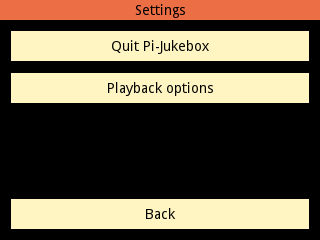
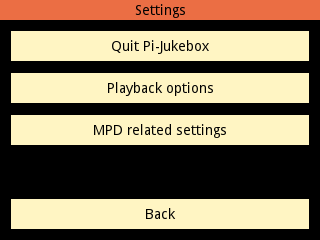
rebuilt docs

Changed region(s): [[0.0312, 0.4667, 0.9688, 0.6125]]

diff --git a/searchindex.js b/searchindex.js
@@ -1,1 +1,1 @@
-Search.setIndex({envversion:42,terms:{swipe_click:[],all:[2,3],partial:2,whatev:3,consum:2,mnt:3,image_fil:2,show_playlist:2,supplement:3,"_yourusername_":3,follow:[2,3],millisecond:2,"const":2,swipe_up:[],program:[1,2,3],worth:3,sound:3,hor_mid:2,string:2,straightforward:3,song:2,fals:2,account:3,mous:2,hor_ind:2,item_select:[],volum:[2,3],jack:3,on_swip:2,magic:3,did:[0,1],button:2,list:2,is_mpd_run:[],item:2,adjust:[1,2],servic:3,work:3,cfg:3,browseabl:3,status_get:2,zero:3,item_outline_vis:2,download:3,further:2,click:2,blue:2,index:[0,2],what:[1,2],get_playlist_current_playing_index:2,nano:3,abl:[1,3],access:[1,3],version:1,screensearch:2,consume_switch:2,keyboardlett:2,ever:0,"public":3,movement:2,show_prev_item:2,hdmi:3,usb1:3,play_playlist_item:2,song_nam:2,here:[0,3],behaviour:3,beck:[],test:3,path:3,set_text:2,vertic:2,sinc:3,valu:[1,2],wait:[2,3],box:2,search:[],zeroconf_en:3,larger:1,step:3,zeroconf:[],amount:1,action:2,extrem:3,chang:3,fstab:3,playlist_current_crop:[],songs_get:2,win:3,modul:0,prefer:3,apt:3,brought:1,"boolean":2,thought:3,visibl:2,instal:[],playlist_add_playlist:2,select:[],album_songs_get:2,item_alignment_horizont:2,"3_library_act":[],from:[],usb:[],would:3,internation:3,piusb:3,two:[2,3],next:2,live:3,playlist_nam:2,call:[2,3],rect:2,type:2,until:2,event_loop:2,playlist_current_count:2,relat:[2,3],stick:[],relai:2,hold:2,screensettingsquit:2,cach:3,must:[1,3],none:2,retriev:2,room:1,hous:1,prepar:[],outlin:2,keyboardbas:2,tag_nam:2,can:[0,1,2,3],learn:3,add_screen:2,alignment_vert:2,stream:1,scan:3,process:2,sudo:[1,3],share:3,indic:[],sourc:3,want:[0,1,2,3],huge:1,cours:3,turn:[2,3],repeat_switch:2,write:2,subdirectori:3,lastfm:3,simpl:1,updat:[2,3],product:3,audioscrobbl:3,after:3,befor:[2,3],smbpasswd:3,data:2,util:3,timezon:3,add_compon:2,music_directori:1,vert_ind:2,mpdscribbl:3,inform:2,"switch":[1,2,3],caption:2,allow:[1,3],enter:[1,2],order:3,origin:2,mute:2,alsamix:3,move:2,becaus:3,through:[1,3],paramet:2,group:3,directli:1,fit:[2,3],swipe_left:[],alsactl:3,artists_get:2,window:[2,3],whole:3,might:3,wouldn:3,them:3,good:3,"return":2,handl:2,first_lett:2,rectangl:2,screenplaylist:2,now:3,screencoverart:[],name:[2,3],edit:[2,3],config:3,didn:3,easili:3,mode:2,"____run_on_raspberry_pi__":[],found:[1,2],modipi:1,search_typ:2,mdn:3,album_nam:2,enorm:1,lan:3,bluetooth:1,item_selected_index:2,connect:[2,3],event_loop_hook:2,happen:3,event:2,special:3,album:2,"try":[],network:3,space:3,vert_mid:2,reboot:3,clicked_item:2,content:[0,3],rel:2,hardwar:[],"__run_on_raspberry_pi":[],is_int:[],smb:3,file_nam:2,random_switch:2,shut:2,artist_songs_get:2,insid:2,advanc:3,playlist:3,mpd_music_dir:1,base:2,dictionari:2,put:3,succesfulli:[],soundcard:3,item_active_color:2,show_artist:2,card:3,indent:2,couldn:2,launch:2,set_align:2,library_rescan:2,keep:3,screenmod:2,font_color:2,current_index:2,first:[2,3],oper:[],icon_fil:2,render:2,number:2,sometim:3,iocharset:3,instruct:3,alreadi:3,done:2,least:2,size:3,playlists_get:2,differ:[1,2,3],guest:3,width:2,top:2,swipe:2,mkdir:3,system:[],messag:3,too:3,white:2,store:3,item_active_background_color:2,luckili:3,option:[2,3],tool:3,update_interv:2,specifi:2,part:2,kept:3,png:[],zeroconf_nam:3,kind:2,whenev:3,provid:3,remov:2,horizont:2,project:[0,1],friend:1,usbmount:3,posit:2,bet:3,browser:2,pre:[2,3],only_start:2,mind:[0,1,3],anywher:1,screenplai:2,packag:3,have:[0,1,3],need:[2,3],deamon:3,keyboardsymbol:2,screensettingsmpd:2,adafruit:[1,3],built:3,lib:3,self:3,add_row_button:2,also:[1,3],playlist_current_clear:2,take:3,which:[0,1,2,3],singl:1,pitft:3,sure:[1,3],usernam:3,previou:2,reach:3,plai:3,plan:1,letter:2,playlist_act:2,draw_item:2,item_selected_get:2,"class":2,icon:2,letterbrows:2,urg:0,url:3,later:[1,3],cover:2,drive:[],doe:3,determin:2,player_control_set:2,show:2,text:2,random:2,radio:1,font:2,fine:3,find:[0,2],current:[2,3],onli:[2,3],libnss:3,configur:[],activ:2,should:[1,2,3],gestur:[],black:2,folder:3,"_index_":2,local:3,selected_titl:2,touchscreen:[1,3],get:[2,3],familiar:3,stop:2,progress:2,increas:2,restart:3,cif:3,enabl:3,artist:[],"default":[2,3],common:3,contain:[2,3],active_item_index:2,where:[2,3],user:[2,3],set:[],art:2,writeabl:3,accord:2,playlist_add:2,see:3,full:3,artist_albums_get:2,result:2,close:2,pihom:3,statu:2,usb0:3,hopefulli:3,databas:2,someth:3,label:2,set_item_align:2,between:1,without:3,drawn:2,awai:3,first_letters_in_result_get:2,item_height:2,swipe_down:[],kei:2,type_show:2,entir:2,spare:3,disconnect:2,"_your":3,addit:3,ip_:3,etc:3,mani:1,screenvolum:2,com:3,load:1,screenplay:[],point:[1,2],instanti:2,inspir:1,height:2,littl:3,screen_set:[],cancel:2,mpd_systemwid:3,along:3,quit:[2,3],becom:3,execut:2,rebuild:2,devic:[],librarybrows:2,compon:[2,3],secret:3,much:3,basic:2,life:3,fire:2,imag:[2,3],ani:[2,3],find_text:2,bonjour:3,those:2,"case":[2,3],multi:1,look:3,align:2,defin:2,neat:3,"_yourpassword_":3,publicli:3,error:3,fun:0,raspi:3,loop:2,readi:3,audiocard:3,screen_rect:2,selected_typ:2,playlist_add_artist:2,player:[],swipe_right:[],itself:2,conf:[1,3],surprisingli:3,perform:2,media:3,same:[0,3],piradio:[],member:[],python:[],speaker:3,library_upd:2,complet:3,outline_vis:2,http:3,screenshot:[],utf8:3,effect:3,fairli:1,initi:[2,3],item_alignment_vert:2,weep:3,expand:3,volume_set:2,off:[2,3],labeltext:2,entri:[1,2,3],thu:2,set_currently_show:2,"320x240":1,client:[1,3],command:3,thi:[1,2,3],everyth:[2,3],comment:3,identifi:2,paus:2,just:[0,2,3],boot:3,rest:3,sima:3,x_po:2,touch:[0,3],simultan:1,tag_typ:2,swipe_type_get:[],samba:[],easi:[1,3],pages_count:2,had:0,except:[],param:2,color:2,add:[2,3],volume_mute_switch:2,explanatori:3,app:1,match:2,gave:3,bin:3,applic:[0,1],transpar:2,big:3,hor_left:2,background:2,press:2,amp:3,password:3,screenset:2,daemon:3,like:[1,3],artist_nam:2,manual:3,integ:[],server:[],list_symbol:2,collect:1,project_:[],necessari:3,output:3,avahi:3,depend:[2,3],www:3,right:3,captur:2,buttontext:2,some:[1,3],percentag:2,screensettingsplayback:2,home:3,albums_get:2,item_selected_background_color:2,scale:1,per:3,track:[2,3],nas_driv:3,listitem:2,recogniz:3,object:2,run:[],mpdcontrol:2,event_typ:[],journal:3,show_next_item:2,player_control_get:2,host:3,although:1,post:3,"throw":3,necess:3,update_librari:[],actual:3,page:[0,2,3],swipe_typ:2,draw_page_ind:2,you:[0,1,2,3],mpdlibrari:[],capacit:3,own:[2,3],absolut:2,within:[2,3],automat:3,down:2,find_first_lett:2,ensur:2,storag:3,your:[],manag:2,screen_list:2,pictur:2,support:[1,3],buttonicon:2,"long":3,why:3,start:[2,3],gid:3,includ:1,"var":3,music:[],set_playlist_current_playing_index:2,"function":2,headach:3,"1_player":[],playlist_add_song:2,raspberri:[],play_statu:2,link:3,volume_set_rel:2,line:3,"true":2,clear_playlist:2,made:[0,1,3],item_selected_color:2,search_text:2,possibl:[2,3],whether:[2,3],item_active_get:2,displai:2,set_image_fil:2,similar:3,show_album:2,model:3,featur:3,uid:3,creat:3,dure:2,mouse_down_po:2,file:[2,3],screenselect:2,y_po:2,check:1,fill:2,again:3,successfulli:2,playlist_add_album:2,titl:2,when:2,virtual:2,field:2,other:[1,3],futur:[1,3],screenlibrari:2,gui_widget:2,nice:3,variabl:2,draw:2,repeat:2,symbol:2,on_click:2,item_ind:2,itemlist:2,process_mouse_ev:2,raspbian:3,show_song:2,directori:3,wifi:[],mask:3,alignment_horizont:2,"2_library_brows":[],time:3,escap:2},objtypes:{"0":"py:module","1":"py:class","2":"py:method"},objnames:{"0":["py","module","Python module"],"1":["py","class","Python class"],"2":["py","method","Python method"]},filenames:["index","about","code","raspberry_pi","screenshots"],titles:["Welcome to pi-jukebox&#8217;s documentation!","About pi-jukebox","Documentation pi-jukebox code","Preparing your Raspberry Pi","Screenshots"],objects:{"":{screen_settings:[2,0,0,"-"],screen_keyboard:[2,0,0,"-"],gui_widgets:[2,0,0,"-"],screen_player:[2,0,0,"-"],screen_library:[2,0,0,"-"],screen_wifi:[2,0,0,"-"],gui_screens:[2,0,0,"-"],mpd_client:[2,0,0,"-"]},"gui_screens.Screen":{on_swipe:[2,2,1,""],add_component:[2,2,1,""],on_click:[2,2,1,""],show:[2,2,1,""]},"screen_player.ScreenPlaying":{show:[2,2,1,""]},screen_player:{ScreenPlaylist:[2,1,1,""],Playlist:[2,1,1,""],ScreenPlaying:[2,1,1,""],ScreenVolume:[2,1,1,""]},"screen_keyboard.KeyboardBase":{set_text:[2,2,1,""],add_row_buttons:[2,2,1,""]},"screen_library.ScreenLibrary":{find_text:[2,2,1,""],find_first_letter:[2,2,1,""],playlist_action:[2,2,1,""],on_click:[2,2,1,""],set_currently_showing:[2,2,1,""]},"gui_screens.Screens":{add_screen:[2,2,1,""],process_mouse_event:[2,2,1,""],show:[2,2,1,""]},mpd_client:{MPDController:[2,1,1,""]},"screen_player.ScreenPlaylist":{on_click:[2,2,1,""],show:[2,2,1,""]},screen_library:{ScreenLibrary:[2,1,1,""],ScreenSelected:[2,1,1,""],ScreenSearch:[2,1,1,""],LetterBrowser:[2,1,1,""],LibraryBrowser:[2,1,1,""]},"gui_widgets.LabelText":{draw:[2,2,1,""],set_alignment:[2,2,1,""]},gui_screens:{Screens:[2,1,1,""],Screen:[2,1,1,""],ScreenModal:[2,1,1,""]},"gui_widgets.ButtonIcon":{draw:[2,2,1,""],set_image_file:[2,2,1,""]},screen_settings:{ScreenSettingsMPD:[2,1,1,""],ScreenSettingsQuit:[2,1,1,""],ScreenSettings:[2,1,1,""],ScreenSettingsPlayback:[2,1,1,""]},"screen_library.ScreenSelected":{initialize:[2,2,1,""],action:[2,2,1,""]},"gui_widgets.ItemList":{draw:[2,2,1,""],item_selected_get:[2,2,1,""],pages_count:[2,2,1,""],draw_items:[2,2,1,""],item_active_get:[2,2,1,""],draw_page_indicator:[2,2,1,""],on_click:[2,2,1,""],clicked_item:[2,2,1,""],show_next_items:[2,2,1,""],set_item_alignment:[2,2,1,""],show_prev_items:[2,2,1,""]},"screen_keyboard.Keyboard":{show:[2,2,1,""]},screen_keyboard:{KeyboardLetters:[2,1,1,""],KeyboardBase:[2,1,1,""],KeyboardSymbols:[2,1,1,""],Keyboard:[2,1,1,""]},"screen_player.Playlist":{show_playlist:[2,2,1,""]},"screen_library.LibraryBrowser":{show_albums:[2,2,1,""],show_artists:[2,2,1,""],first_letters_in_result_get:[2,2,1,""],show_songs:[2,2,1,""],show_playlists:[2,2,1,""]},gui_widgets:{Picture:[2,1,1,""],Widget:[2,1,1,""],LabelText:[2,1,1,""],ButtonText:[2,1,1,""],ButtonIcon:[2,1,1,""],ItemList:[2,1,1,""]},"mpd_client.MPDController":{library_update:[2,2,1,""],playlist_current_count:[2,2,1,""],player_control_set:[2,2,1,""],playlist_add:[2,2,1,""],playlist_add_artist:[2,2,1,""],status_get:[2,2,1,""],artist_albums_get:[2,2,1,""],connect:[2,2,1,""],playlist_add_playlist:[2,2,1,""],albums_get:[2,2,1,""],album_songs_get:[2,2,1,""],playlists_get:[2,2,1,""],player_control_get:[2,2,1,""],get_playlist_current_playing_index:[2,2,1,""],disconnect:[2,2,1,""],volume_set:[2,2,1,""],repeat_switch:[2,2,1,""],playlist_current_clear:[2,2,1,""],artists_get:[2,2,1,""],volume_mute_switch:[2,2,1,""],play_playlist_item:[2,2,1,""],random_switch:[2,2,1,""],artist_songs_get:[2,2,1,""],playlist_add_song:[2,2,1,""],volume_set_relative:[2,2,1,""],consume_switch:[2,2,1,""],songs_get:[2,2,1,""],playlist_add_album:[2,2,1,""],set_playlist_current_playing_index:[2,2,1,""],library_rescan:[2,2,1,""]},"gui_widgets.Widget":{on_click:[2,2,1,""]},"gui_screens.ScreenModal":{action:[2,2,1,""],close:[2,2,1,""],event_loop:[2,2,1,""],event_loop_hook:[2,2,1,""],show:[2,2,1,""]},"screen_library.ScreenSearch":{action:[2,2,1,""],initialize:[2,2,1,""]}},titleterms:{control:2,oper:3,code:2,set:[4,2,3],creat:2,search:4,tabl:0,widget:2,indic:0,player:[],gui_screen:2,via:2,keyboard:2,instal:3,mpd_client:2,your:[1,3],librari:[4,2,3],dialogu:2,samba:3,from:4,monitor:2,suggest:3,make:3,configur:3,devic:3,system:3,avail:3,playback:2,music:3,select:4,hardwar:3,screen_librari:2,document:[0,2],prepar:3,jukebox:[0,1,2],mpd2:2,mpd:[2,3],run:1,mpc:[],screenshot:4,screen_keyboard:2,python:2,screen:[2,4],raspberri:[1,3],playlist:4,beck:4,plai:4,stick:3,interface_widget:2,build:2,now:4,brows:2,welcom:0,screen_set:2,about:1,graphic:2,last:3,artist:4,mount:3,wifi:3,drive:3,"final":3,zeroconf:3,mpc_control:[],screen_play:2,usb:3,scrobbl:3,server:3,gui:2,block:2}})
+Search.setIndex({envversion:42,terms:{swipe_click:[],all:[2,3],partial:2,whatev:3,consum:2,mnt:3,image_fil:2,show_playlist:2,supplement:3,"_yourusername_":3,follow:[2,3],millisecond:2,"const":2,swipe_up:[],program:[1,2,3],text:2,worth:3,"case":[2,3],hor_mid:2,string:2,straightforward:3,song:2,fals:2,account:3,mous:2,hor_ind:2,item_select:[],volum:[2,3],jack:3,on_swip:2,magic:3,did:[0,1],button:2,list:2,is_mpd_run:[],item:2,adjust:[1,2],align:2,work:3,cfg:3,browseabl:3,status_get:2,zero:3,item_outline_vis:2,download:3,further:2,click:2,blue:2,index:[0,2],what:[1,2],get_playlist_current_playing_index:2,nano:3,abl:[1,3],access:[1,3],version:1,screensearch:2,consume_switch:2,keyboardlett:2,ever:0,"public":3,movement:2,show_prev_item:2,hdmi:3,usb1:3,play_playlist_item:2,song_nam:2,here:[0,3],behaviour:3,beck:[],"320x240":1,path:3,set_text:2,vertic:2,sinc:3,valu:[1,2],wait:[2,3],box:2,search:[],zeroconf_en:3,larger:1,host:3,zeroconf:[],amount:1,action:2,extrem:3,chang:3,configur:[],playlist_current_crop:[],dictionari:2,win:3,modul:0,prefer:3,apt:3,brought:1,"boolean":2,visibl:2,instal:[],playlist_add_playlist:2,select:[],album_songs_get:2,item_alignment_horizont:2,"3_library_act":[],from:[],usb:[],would:3,internation:3,show_artist:2,two:[2,3],next:2,live:3,playlist_nam:2,call:[2,3],rect:2,type:2,until:2,event_loop:2,playlist_current_count:2,relat:[2,3],stick:[],relai:2,hold:2,screensettingsquit:2,cach:3,must:[1,3],none:2,retriev:2,room:1,hous:1,prepar:[],outlin:2,keyboardbas:2,tag_nam:2,itself:2,can:[0,1,2,3],learn:3,add_screen:2,alignment_vert:2,stream:1,scan:3,process:2,sudo:[1,3],share:3,indic:[],sourc:3,want:[0,1,2,3],huge:1,cours:3,screenmod:2,repeat_switch:2,write:2,subdirectori:3,lastfm:3,config:3,updat:[2,3],lan:3,audioscrobbl:3,after:3,befor:[2,3],smbpasswd:3,data:2,util:3,current_index:2,add_compon:2,music_directori:1,vert_ind:2,inform:2,"switch":[1,2,3],allow:[1,3],enter:[1,2],order:3,origin:2,mute:2,alsamix:3,move:2,becaus:3,through:[1,3],paramet:2,group:3,directli:1,fit:[2,3],swipe_left:[],alsactl:3,artists_get:2,window:[2,3],might:3,wouldn:3,them:3,good:3,"return":2,handl:2,first_lett:2,rectangl:2,screenplaylist:2,now:3,screencoverart:[],name:[2,3],edit:[2,3],simpl:1,didn:3,easili:3,mode:2,"____run_on_raspberry_pi__":[],found:[1,2],modipi:1,search_typ:2,mdn:3,enorm:1,product:3,bluetooth:1,item_selected_index:2,connect:[2,3],event_loop_hook:2,happen:3,event:2,special:3,album:2,"try":[],network:3,space:3,vert_mid:2,reboot:3,clicked_item:2,content:[0,3],com:3,rel:2,hardwar:[],"__run_on_raspberry_pi":[],is_int:[],smb:3,file_nam:2,random_switch:2,shut:2,artist_songs_get:2,insid:2,advanc:3,playlist:3,mpd_music_dir:1,base:2,songs_get:2,put:3,succesfulli:[],soundcard:3,item_active_color:2,piusb:3,card:3,indent:2,couldn:2,launch:2,set_align:2,library_rescan:2,keep:3,turn:[2,3],font_color:2,timezon:3,first:[2,3],oper:[],icon_fil:2,render:2,number:2,sometim:3,iocharset:3,instruct:3,alreadi:3,done:2,least:2,size:3,playlists_get:2,differ:[1,2,3],weep:3,guest:3,start:[2,3],top:2,swipe:2,mkdir:3,system:[],messag:3,too:3,white:2,store:3,includ:1,luckili:3,option:[2,3],tool:3,update_interv:2,specifi:2,part:2,off:[2,3],png:[],zeroconf_nam:3,kind:2,whenev:3,provid:3,remov:2,horizont:2,project:[0,1],friend:1,entri:[1,2,3],posit:2,initi:[2,3],bet:3,browser:2,pre:[2,3],only_start:2,mind:[0,1,3],anywher:1,screenplai:2,packag:3,have:[0,1,3],need:[2,3],deamon:3,keyboardsymbol:2,screensettingsmpd:2,adafruit:[1,3],built:3,lib:3,self:3,add_row_button:2,also:[1,3],client:[1,3],take:3,which:[0,1,2,3],singl:1,pitft:3,sure:[1,3],usernam:3,previou:2,reach:3,plai:3,plan:1,letter:2,playlist_act:2,draw_item:2,item_selected_get:2,"class":2,icon:2,letterbrows:2,urg:0,url:3,later:[1,3],cover:2,drive:[],doe:3,determin:2,player_control_set:2,show:2,playlist_current_clear:2,random:2,radio:1,font:2,fine:3,find:[0,2],current:[2,3],onli:[2,3],libnss:3,fstab:3,activ:2,should:[1,2,3],gestur:[],black:2,folder:3,"_index_":2,local:3,selected_titl:2,touchscreen:[1,3],get:[2,3],familiar:3,stop:2,drawn:2,increas:2,restart:3,search_text:2,enabl:3,artist:[],multi:1,whether:[2,3],common:3,contain:[2,3],active_item_index:2,where:[2,3],set:[],art:2,item_active_get:2,item_height:2,playlist_add:2,see:3,full:3,artist_albums_get:2,result:2,close:2,pihom:3,set_image_fil:2,statu:2,usb0:3,hopefulli:3,databas:2,someth:3,label:2,set_item_align:2,between:1,progress:2,awai:3,first_letters_in_result_get:2,accord:2,swipe_down:[],kei:2,type_show:2,entir:2,spare:3,disconnect:2,addit:3,etc:3,mani:1,screenvolum:2,whole:3,load:1,screenplay:[],point:[1,2],instanti:2,inspir:1,height:2,param:2,screen_set:[],cancel:2,mpd_systemwid:3,along:3,quit:[2,3],becom:3,execut:2,rebuild:2,devic:[],librarybrows:2,compon:[2,3],secret:3,much:3,basic:2,futur:[1,3],life:3,fire:2,imag:[2,3],ani:[2,3],find_text:2,bonjour:3,those:2,sound:3,mpdscribbl:3,look:3,servic:3,defin:2,alignment_horizont:2,neat:3,match:2,publicli:3,error:3,fun:0,raspi:3,screenlibrari:2,loop:2,readi:3,audiocard:3,screen_rect:2,selected_typ:2,playlist_add_artist:2,player:[],swipe_right:[],"_your":3,conf:[1,3],surprisingli:3,perform:2,media:3,same:[0,3],piradio:[],member:[],python:[],speaker:3,library_upd:2,complet:3,outline_vis:2,http:3,screenshot:[],utf8:3,effect:3,fairli:1,user:[2,3],item_alignment_vert:2,caption:2,expand:3,volume_set:2,kept:3,labeltext:2,usbmount:3,thu:2,set_currently_show:2,thought:3,without:3,command:3,thi:[1,2,3],everyth:[2,3],comment:3,identifi:2,paus:2,just:[0,2,3],when:2,rest:3,sima:3,x_po:2,touch:[0,3],simultan:1,tag_typ:2,swipe_type_get:[],samba:[],easi:[1,3],pages_count:2,had:0,except:[],littl:3,color:2,add:[2,3],volume_mute_switch:2,explanatori:3,app:1,"_yourpassword_":3,gave:3,bin:3,applic:[0,1],transpar:2,big:3,hor_left:2,background:2,press:2,amp:3,password:3,screenset:2,daemon:3,like:[1,3],artist_nam:2,manual:3,integ:[],server:[],list_symbol:2,collect:1,project_:[],necessari:3,output:3,avahi:3,depend:[2,3],www:3,right:3,captur:2,buttontext:2,some:[1,3],percentag:2,screensettingsplayback:2,home:3,albums_get:2,item_selected_background_color:2,scale:1,per:3,track:[2,3],nas_driv:3,listitem:2,recogniz:3,object:2,run:[],mpdcontrol:2,event_typ:[],journal:3,show_next_item:2,player_control_get:2,step:3,although:1,post:3,"throw":3,necess:3,actual:3,page:[0,2,3],swipe_typ:2,draw_page_ind:2,mpdlibrari:[],capacit:3,own:[2,3],absolut:2,within:[2,3],automat:3,down:2,find_first_lett:2,ensur:2,storag:3,your:[],manag:2,screen_list:2,pictur:2,support:[1,3],buttonicon:2,"long":3,why:3,width:2,gid:3,item_active_background_color:2,"var":3,music:[],set_playlist_current_playing_index:2,"function":2,headach:3,"1_player":[],playlist_add_song:2,raspberri:[],play_statu:2,link:3,volume_set_rel:2,line:3,"true":2,clear_playlist:2,made:[0,1,3],item_selected_color:2,cif:3,possibl:[2,3],"default":[2,3],writeabl:3,displai:2,ip_:3,gui_widget:2,similar:3,show_album:2,model:3,featur:3,uid:3,creat:3,dure:2,mouse_down_po:2,file:[2,3],screenselect:2,variabl:2,check:1,fill:2,again:3,successfulli:2,playlist_add_album:2,titl:2,boot:3,virtual:2,field:2,other:[1,3],album_nam:2,test:3,you:[0,1,2,3],nice:3,update_librari:[],draw:2,repeat:2,symbol:2,on_click:2,item_ind:2,itemlist:2,process_mouse_ev:2,raspbian:3,show_song:2,directori:3,wifi:[],mask:3,y_po:2,"2_library_brows":[],time:3,escap:2},objtypes:{"0":"py:module","1":"py:class","2":"py:method"},objnames:{"0":["py","module","Python module"],"1":["py","class","Python class"],"2":["py","method","Python method"]},filenames:["index","about","code","raspberry_pi","screenshots"],titles:["Welcome to pi-jukebox&#8217;s documentation!","About pi-jukebox","Documentation pi-jukebox code","Preparing your Raspberry Pi","Screenshots"],objects:{"":{mpd_client:[2,0,0,"-"],screen_wifi:[2,0,0,"-"],gui_widgets:[2,0,0,"-"],screen_player:[2,0,0,"-"],screen_library:[2,0,0,"-"],screen_keyboard:[2,0,0,"-"],gui_screens:[2,0,0,"-"],screen_settings:[2,0,0,"-"]},"gui_screens.Screen":{on_swipe:[2,2,1,""],add_component:[2,2,1,""],on_click:[2,2,1,""],show:[2,2,1,""]},"screen_player.ScreenPlaying":{show:[2,2,1,""]},screen_player:{ScreenPlaylist:[2,1,1,""],Playlist:[2,1,1,""],ScreenPlaying:[2,1,1,""],ScreenVolume:[2,1,1,""]},"screen_keyboard.KeyboardBase":{set_text:[2,2,1,""],add_row_buttons:[2,2,1,""]},"screen_library.ScreenLibrary":{find_text:[2,2,1,""],find_first_letter:[2,2,1,""],playlist_action:[2,2,1,""],on_click:[2,2,1,""],set_currently_showing:[2,2,1,""]},"gui_screens.Screens":{add_screen:[2,2,1,""],process_mouse_event:[2,2,1,""],show:[2,2,1,""]},mpd_client:{MPDController:[2,1,1,""]},"screen_player.ScreenPlaylist":{on_click:[2,2,1,""],show:[2,2,1,""]},screen_library:{ScreenLibrary:[2,1,1,""],ScreenSelected:[2,1,1,""],ScreenSearch:[2,1,1,""],LetterBrowser:[2,1,1,""],LibraryBrowser:[2,1,1,""]},"gui_widgets.LabelText":{draw:[2,2,1,""],set_alignment:[2,2,1,""]},gui_screens:{Screens:[2,1,1,""],Screen:[2,1,1,""],ScreenModal:[2,1,1,""]},"gui_widgets.ButtonIcon":{draw:[2,2,1,""],set_image_file:[2,2,1,""]},screen_settings:{ScreenSettingsMPD:[2,1,1,""],ScreenSettingsQuit:[2,1,1,""],ScreenSettings:[2,1,1,""],ScreenSettingsPlayback:[2,1,1,""]},"screen_library.ScreenSelected":{initialize:[2,2,1,""],action:[2,2,1,""]},"gui_widgets.ItemList":{draw:[2,2,1,""],item_selected_get:[2,2,1,""],pages_count:[2,2,1,""],draw_items:[2,2,1,""],item_active_get:[2,2,1,""],draw_page_indicator:[2,2,1,""],on_click:[2,2,1,""],clicked_item:[2,2,1,""],show_next_items:[2,2,1,""],set_item_alignment:[2,2,1,""],show_prev_items:[2,2,1,""]},"screen_keyboard.Keyboard":{show:[2,2,1,""]},screen_keyboard:{KeyboardLetters:[2,1,1,""],KeyboardBase:[2,1,1,""],KeyboardSymbols:[2,1,1,""],Keyboard:[2,1,1,""]},"screen_player.Playlist":{show_playlist:[2,2,1,""]},"screen_library.LibraryBrowser":{show_albums:[2,2,1,""],show_artists:[2,2,1,""],first_letters_in_result_get:[2,2,1,""],show_songs:[2,2,1,""],show_playlists:[2,2,1,""]},gui_widgets:{Picture:[2,1,1,""],Widget:[2,1,1,""],LabelText:[2,1,1,""],ButtonText:[2,1,1,""],ButtonIcon:[2,1,1,""],ItemList:[2,1,1,""]},"mpd_client.MPDController":{library_update:[2,2,1,""],playlist_current_count:[2,2,1,""],player_control_set:[2,2,1,""],playlist_add:[2,2,1,""],playlist_add_artist:[2,2,1,""],status_get:[2,2,1,""],artist_albums_get:[2,2,1,""],connect:[2,2,1,""],playlist_add_playlist:[2,2,1,""],albums_get:[2,2,1,""],album_songs_get:[2,2,1,""],playlists_get:[2,2,1,""],player_control_get:[2,2,1,""],get_playlist_current_playing_index:[2,2,1,""],disconnect:[2,2,1,""],volume_set:[2,2,1,""],repeat_switch:[2,2,1,""],playlist_current_clear:[2,2,1,""],artists_get:[2,2,1,""],volume_mute_switch:[2,2,1,""],consume_switch:[2,2,1,""],random_switch:[2,2,1,""],playlist_add_song:[2,2,1,""],volume_set_relative:[2,2,1,""],artist_songs_get:[2,2,1,""],songs_get:[2,2,1,""],playlist_add_album:[2,2,1,""],play_playlist_item:[2,2,1,""],set_playlist_current_playing_index:[2,2,1,""],library_rescan:[2,2,1,""]},"gui_widgets.Widget":{on_click:[2,2,1,""]},"gui_screens.ScreenModal":{action:[2,2,1,""],close:[2,2,1,""],event_loop:[2,2,1,""],event_loop_hook:[2,2,1,""],show:[2,2,1,""]},"screen_library.ScreenSearch":{action:[2,2,1,""],initialize:[2,2,1,""]}},titleterms:{control:2,oper:3,code:2,set:[4,2,3],creat:2,tabl:0,mpd:[2,3],indic:0,player:[],gui_screen:2,via:2,keyboard:2,instal:3,mpd_client:2,your:[1,3],librari:[4,2,3],dialogu:2,samba:3,from:4,monitor:2,suggest:3,make:3,configur:3,devic:3,system:3,avail:3,playback:2,music:3,select:4,hardwar:3,screen_librari:2,document:[0,2],prepar:3,jukebox:[0,1,2],mpd2:2,widget:2,run:1,mpc:[],screenshot:4,screen_keyboard:2,python:2,screen:[2,4],raspberri:[1,3],playlist:4,beck:4,plai:4,stick:3,interface_widget:2,build:2,now:4,brows:2,welcom:0,screen_set:2,search:4,graphic:2,last:3,artist:4,mount:3,wifi:3,drive:3,"final":3,zeroconf:3,mpc_control:[],screen_play:2,usb:3,about:1,scrobbl:3,server:3,gui:2,block:2}})

diff --git a/screenshots.html b/screenshots.html
@@ -184,9 +184,10 @@
 <h2>Settings screen<a class="headerlink" href="#settings-screen" title="Permalink to this headline">¶</a></h2>
 <blockquote>
 <div><img alt="_images/6_settings.png" src="_images/6_settings.png" />
-</div></blockquote>
 <img alt="_images/7_settings_2.png" src="_images/7_settings_2.png" />
 <img alt="_images/7_settings_3.png" src="_images/7_settings_3.png" />
+<img alt="_images/7_settings_4.png" src="_images/7_settings_4.png" />
+</div></blockquote>
 </div>
 </div>
 
